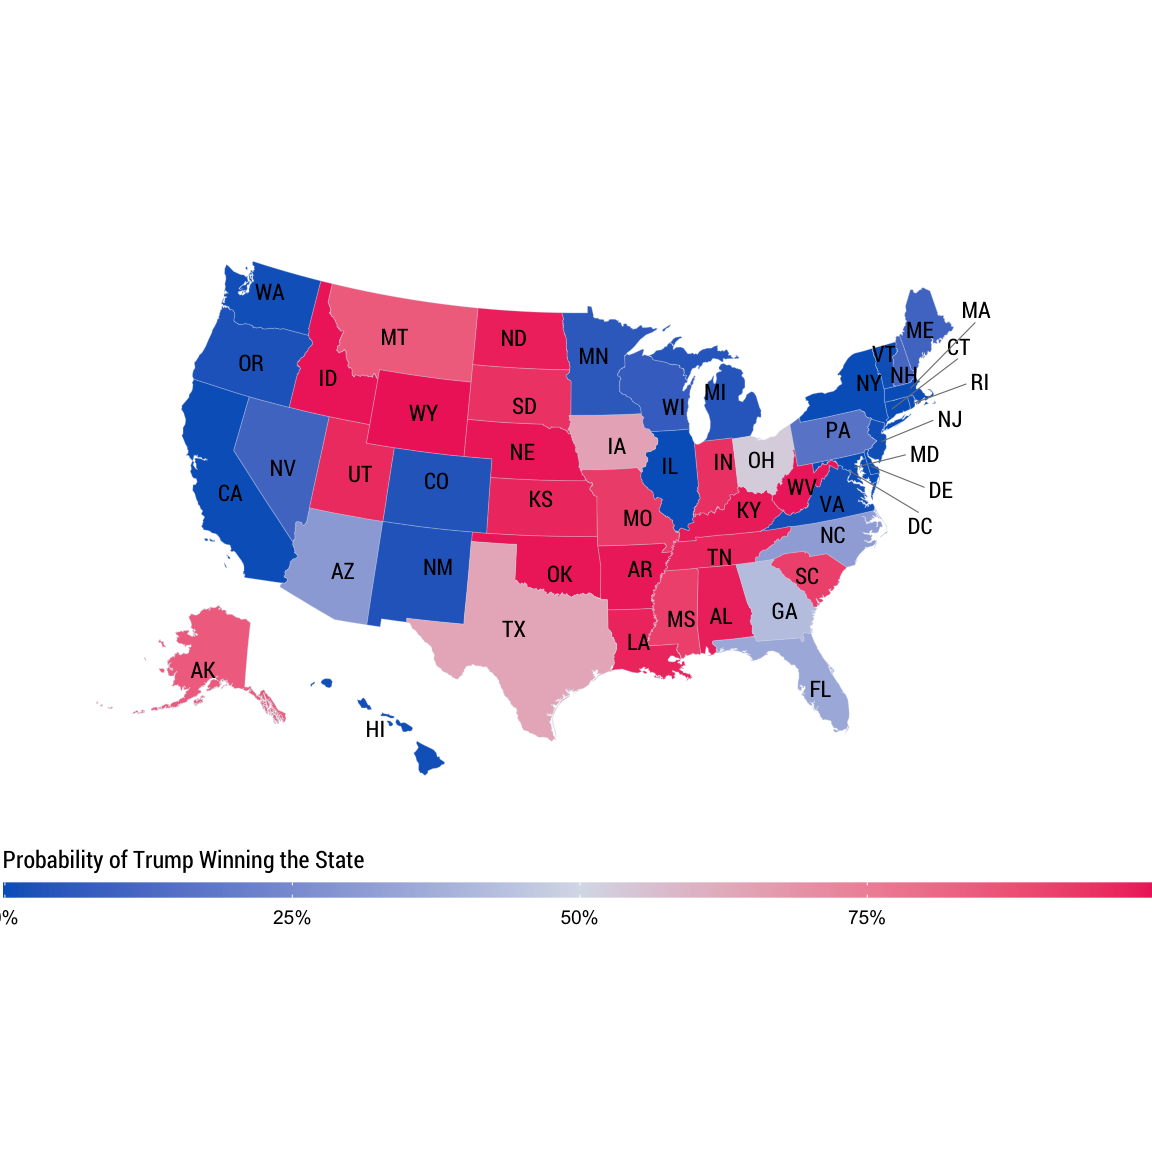
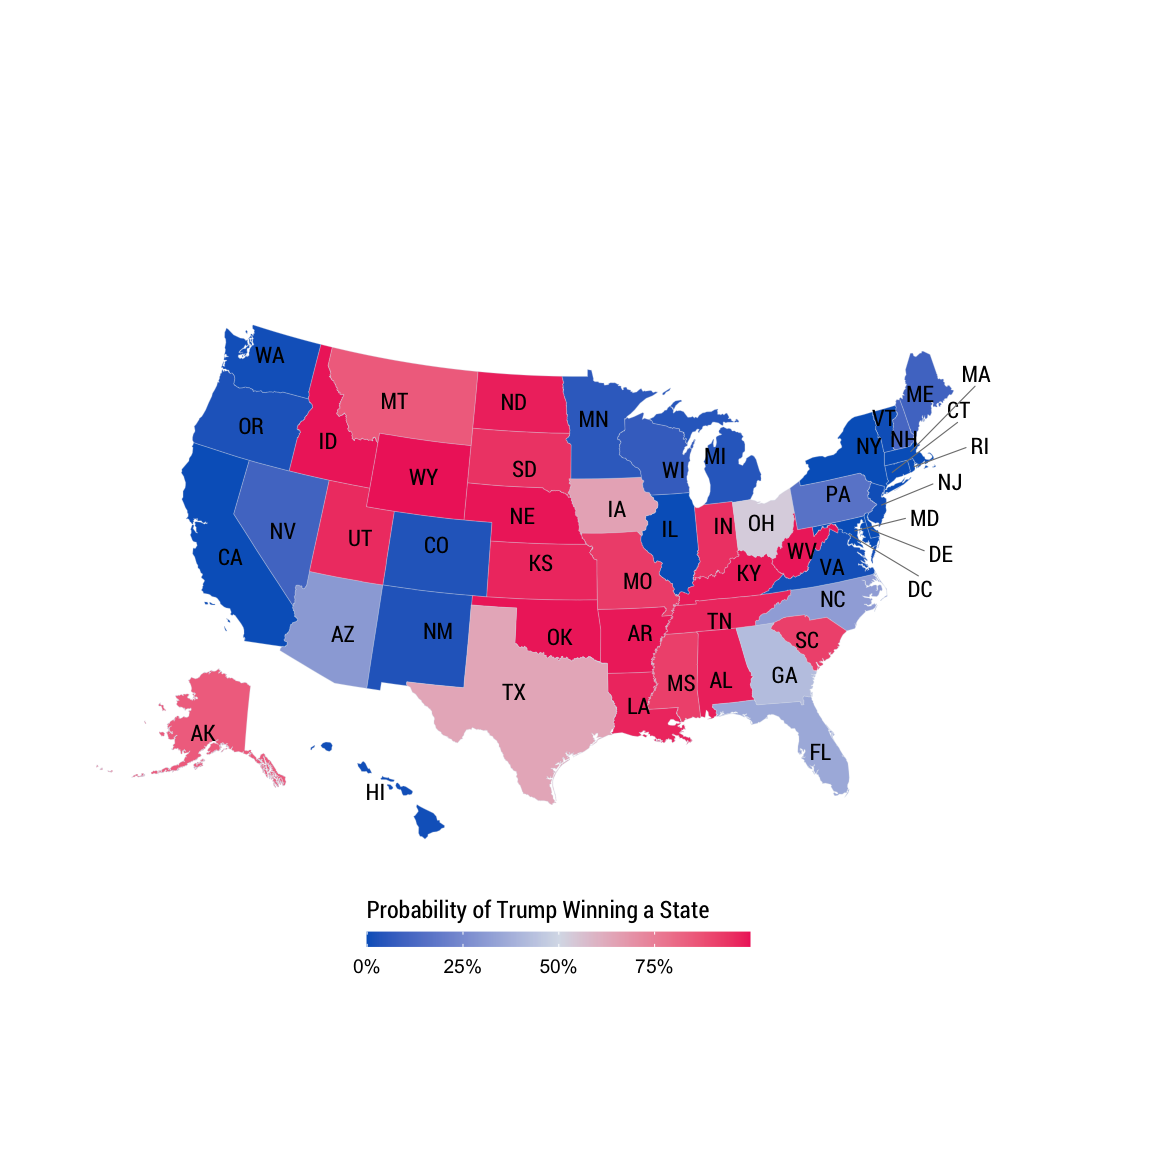
Updated US map

diff --git a/_posts/2020-10-31-plotting-election-win-probabilities/plotting-election-win-probabilities.html b/_posts/2020-10-31-plotting-election-win-probabilities/plotting-election-win-probabilities.html
@@ -1501,12 +1501,13 @@ code span.wa { color: #545454; font-weight: bold; font-style: italic; } /* Warni
                        high <span class='op'>=</span> <span class='st'>"#ef2e69"</span>,
                        midpoint <span class='op'>=</span> <span class='fl'>50</span>,
                        labels <span class='op'>=</span> <span class='fu'><a href='https://rdrr.io/r/base/c.html'>c</a></span><span class='op'>(</span><span class='st'>"0%"</span>, <span class='st'>"25%"</span>, <span class='st'>"50%"</span>, <span class='st'>"75%"</span>, <span class='st'>"100%"</span><span class='op'>)</span>,
-                       guide <span class='op'>=</span> <span class='fu'>guide_colourbar</span><span class='op'>(</span>barwidth <span class='op'>=</span> <span class='fl'>30</span>, 
+                       guide <span class='op'>=</span> <span class='fu'>guide_colorbar</span><span class='op'>(</span>barwidth <span class='op'>=</span> <span class='fl'>10</span>, 
                                               barheight <span class='op'>=</span> <span class='fl'>0.4</span>,
                                               title.position <span class='op'>=</span> <span class='st'>"top"</span><span class='op'>)</span><span class='op'>)</span> <span class='op'>+</span> 
-  <span class='fu'>labs</span><span class='op'>(</span>fill <span class='op'>=</span> <span class='st'>"Probability of Trump Winning the State"</span><span class='op'>)</span> <span class='op'>+</span>
+  <span class='fu'>labs</span><span class='op'>(</span>fill <span class='op'>=</span> <span class='st'>"Probability of Trump Winning a State"</span><span class='op'>)</span> <span class='op'>+</span>
   <span class='fu'>ggthemes</span><span class='fu'>::</span><span class='fu'><a href='https://rdrr.io/pkg/ggthemes/man/theme_map.html'>theme_map</a></span><span class='op'>(</span><span class='op'>)</span> <span class='op'>+</span>
-  <span class='fu'>theme</span><span class='op'>(</span>legend.position <span class='op'>=</span> <span class='st'>"bottom"</span>,
+  <span class='fu'>theme</span><span class='op'>(</span>legend.position <span class='op'>=</span> <span class='fu'><a href='https://rdrr.io/r/base/c.html'>c</a></span><span class='op'>(</span><span class='fl'>0.3</span>, <span class='op'>-</span><span class='fl'>0.2</span><span class='op'>)</span>,
+        legend.direction<span class='op'>=</span> <span class='st'>"horizontal"</span>,
         legend.title <span class='op'>=</span> <span class='fu'>element_text</span><span class='op'>(</span>family <span class='op'>=</span> <span class='st'>"Roboto Condensed"</span><span class='op'>)</span><span class='op'>)</span> 
 </code></pre>
 </div>

diff --git a/_site/posts/2020-10-31-plotting-election-win-probabilities/index.html b/_site/posts/2020-10-31-plotting-election-win-probabilities/index.html
@@ -2106,12 +2106,13 @@ document.addEventListener('DOMContentLoaded', function() {
                        high <span class='op'>=</span> <span class='st'>"#ef2e69"</span>,
                        midpoint <span class='op'>=</span> <span class='fl'>50</span>,
                        labels <span class='op'>=</span> <span class='fu'><a href='https://rdrr.io/r/base/c.html'>c</a></span><span class='op'>(</span><span class='st'>"0%"</span>, <span class='st'>"25%"</span>, <span class='st'>"50%"</span>, <span class='st'>"75%"</span>, <span class='st'>"100%"</span><span class='op'>)</span>,
-                       guide <span class='op'>=</span> <span class='fu'>guide_colourbar</span><span class='op'>(</span>barwidth <span class='op'>=</span> <span class='fl'>30</span>, 
+                       guide <span class='op'>=</span> <span class='fu'>guide_colorbar</span><span class='op'>(</span>barwidth <span class='op'>=</span> <span class='fl'>10</span>, 
                                               barheight <span class='op'>=</span> <span class='fl'>0.4</span>,
                                               title.position <span class='op'>=</span> <span class='st'>"top"</span><span class='op'>)</span><span class='op'>)</span> <span class='op'>+</span> 
-  <span class='fu'>labs</span><span class='op'>(</span>fill <span class='op'>=</span> <span class='st'>"Probability of Trump Winning the State"</span><span class='op'>)</span> <span class='op'>+</span>
+  <span class='fu'>labs</span><span class='op'>(</span>fill <span class='op'>=</span> <span class='st'>"Probability of Trump Winning a State"</span><span class='op'>)</span> <span class='op'>+</span>
   <span class='fu'>ggthemes</span><span class='fu'>::</span><span class='fu'><a href='https://rdrr.io/pkg/ggthemes/man/theme_map.html'>theme_map</a></span><span class='op'>(</span><span class='op'>)</span> <span class='op'>+</span>
-  <span class='fu'>theme</span><span class='op'>(</span>legend.position <span class='op'>=</span> <span class='st'>"bottom"</span>,
+  <span class='fu'>theme</span><span class='op'>(</span>legend.position <span class='op'>=</span> <span class='fu'><a href='https://rdrr.io/r/base/c.html'>c</a></span><span class='op'>(</span><span class='fl'>0.3</span>, <span class='op'>-</span><span class='fl'>0.2</span><span class='op'>)</span>,
+        legend.direction<span class='op'>=</span> <span class='st'>"horizontal"</span>,
         legend.title <span class='op'>=</span> <span class='fu'>element_text</span><span class='op'>(</span>family <span class='op'>=</span> <span class='st'>"Roboto Condensed"</span><span class='op'>)</span><span class='op'>)</span> 
 </code></pre>
 </div>

diff --git a/_site/index.html b/_site/index.html
@@ -2165,7 +2165,9 @@ function init_posts_list() {
 <div class="dt-author">Ashwin Malshe</div>
 </div>
 </div>
-<div class="thumbnail"></div>
+<div class="thumbnail">
+<img/>
+</div>
 <div class="description">
 <h2>Welcome to R Data Visualization</h2>
 <div class="dt-tags"></div>
